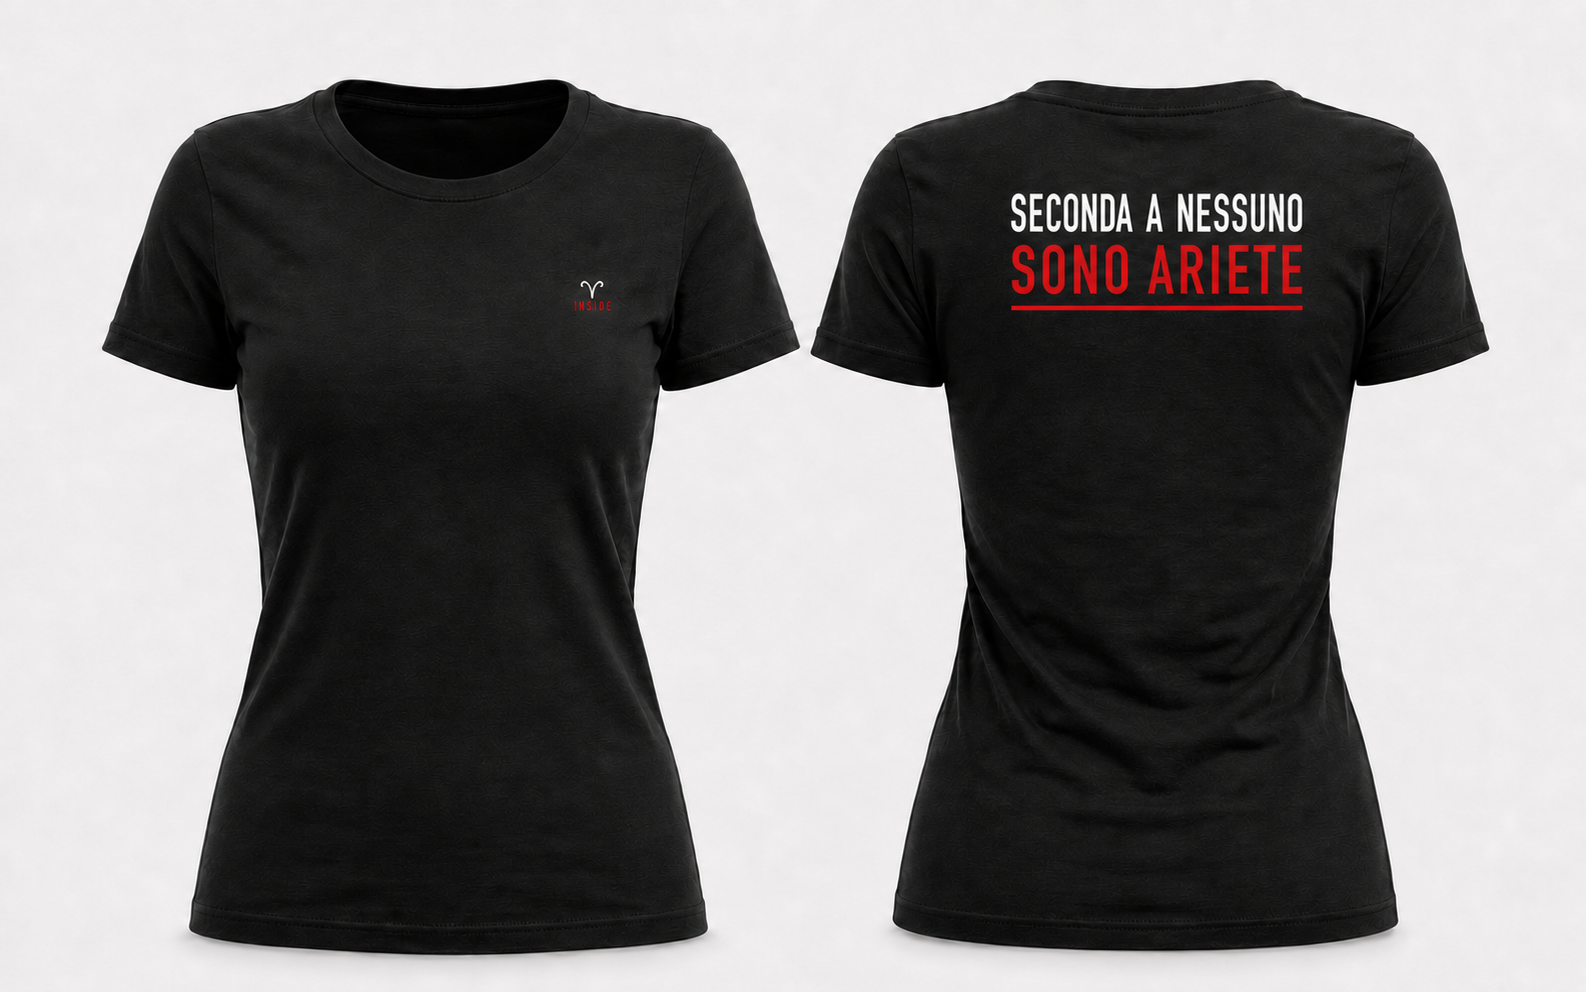
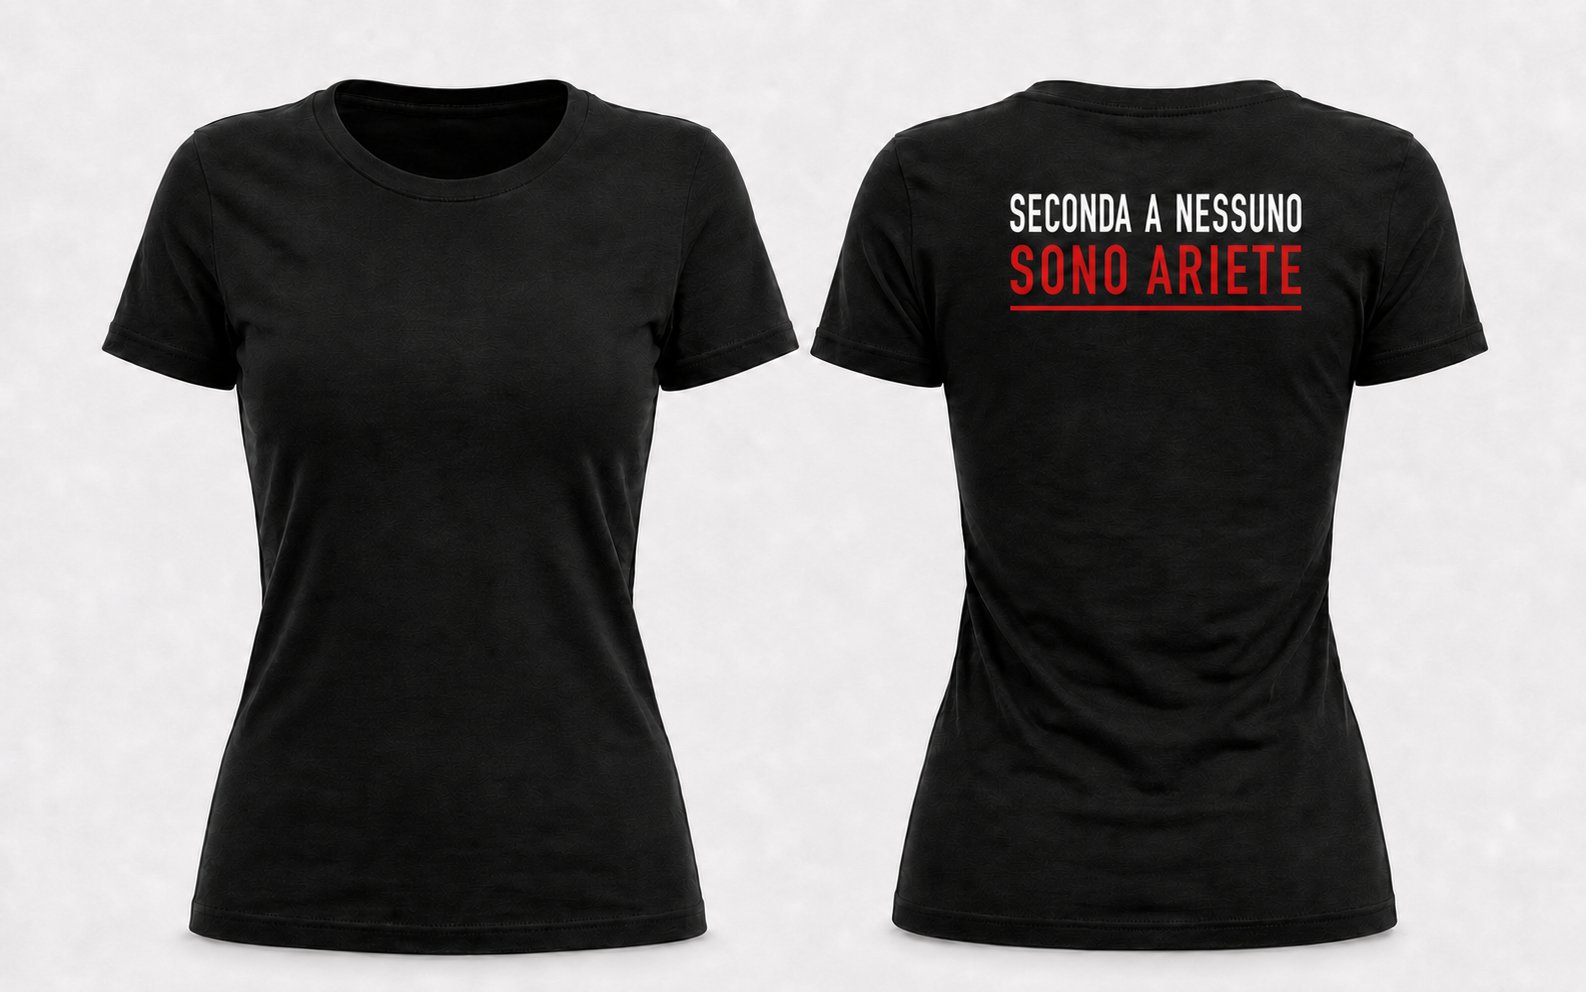
Add files via upload

Changed region(s): [[0.6179, 0.1875, 0.8342, 0.3125], [0.3707, 0.2812, 0.4016, 0.3125]]

diff --git a/app.js b/app.js
@@ -79,7 +79,7 @@ const products = [
     listPrice: 19.9,
     price: 12.95,
     sizes: ["XS", "S", "M", "L", "XL", "XXL"],
-    images: ["./tee-seconda-retro-lifestyle.png", "./tee-seconda-product.png", "./tee-seconda-fronte-lifestyle.png"],
+    images: ["./tee-seconda-retro-lifestyle.png", "./tee-seconda-product.png"],
   },
   {
     id: "tee-solo-fronte-scritta",

diff --git a/index.html b/index.html
@@ -395,6 +395,6 @@
       <button class="lightbox-close" type="button" data-close-lightbox aria-label="Chiudi immagine">Chiudi</button>
       <img data-lightbox-image alt="" />
     </div>
-    <script src="./app.js?v=54"></script>
+    <script src="./app.js?v=55"></script>
   </body>
 </html>